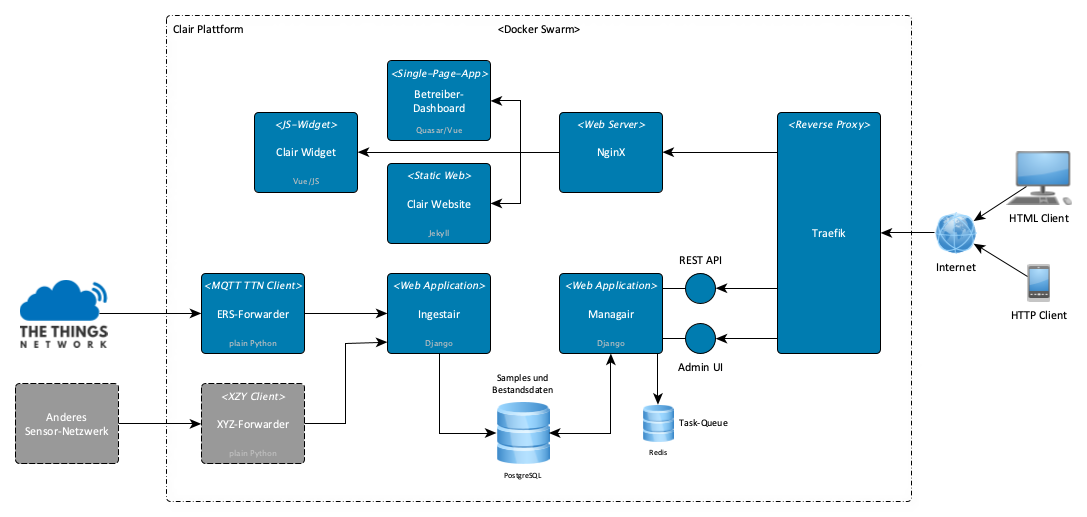
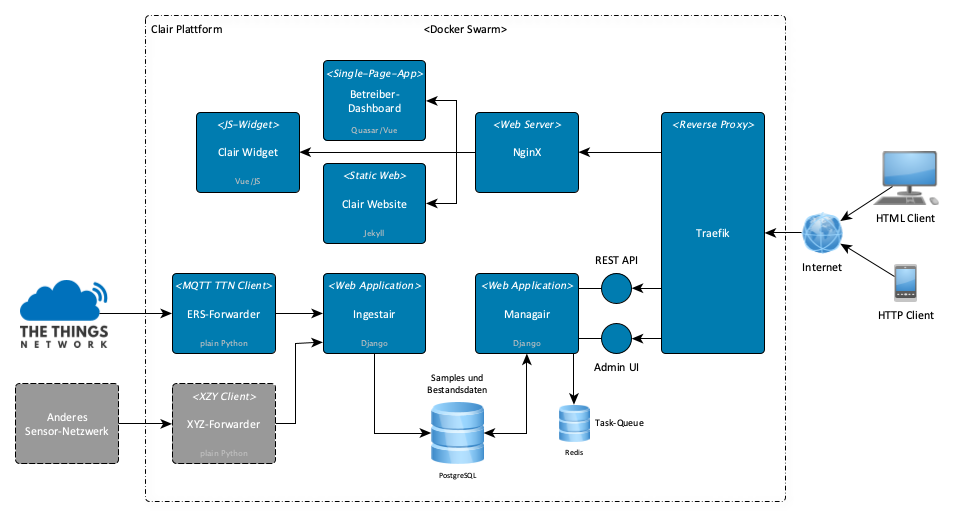
Bugfix und überarbeitete Grafik

diff --git a/technik.md b/technik.md
@@ -25,7 +25,7 @@ In der ersten Ausbaustufe des Clair-Netzwerks setzen wir auf LoRaWAN, da diese F
 
 ### Clair Plattform
 
-Für Sensoren, die ins Clair-Netzwerk eingebunden werden sollen, konfigurieren wir eine Verbindung zu einem bestimmten Endpunkt im Things Network, einer sog. _TTN Anwendung_. Diese TTN-Anwendung wiederum leitet die Messdaten an die Clair-Plattform weiter.
+Für Sensoren, die ins Clair-Netzwerk eingebunden werden sollen, konfigurieren wir eine Verbindung zu einem bestimmten Endpunkt im Things Network. Dieser leitet die Messdaten zu einer passenden _TTN Anwendung_ weiter, die erste Anwendung in der Verarbeitungskette der Clair Plattform.
 
 Eine Übersicht der Clair-Plattform zeigt die folgende Abbildung.
 ![Die Clair Plattform]({{ "/img/clair-stack.png" | relative_url }})
@@ -50,7 +50,8 @@ Die Clair Plattform bildet real existierende Entitäten ab:
 - _Organisationen_ sind die Betreiber von Räumen im juristischen Sinn, also z.B. Firmen oder Vereine. Jede Organisation hat einen oder mehrere _User_ als _Mitglieder_. Ein User kann gleichzeitig Mitglied mehrerer Organisationen sein - z.B. eine Teilzeitkraft, die in zwei Cafés angestellt ist.
 - Eine Organisation ist Clair-Teilnehmer, weil sie vernetzte CO<sub>2</sub>-Sensoren betreibt. Diese Sensoren sind als _Nodes_ in der Clair Plattform abgebildet und fest der jeweiligen Organisation zugeordnet.
 - Jede Organisation hat mindestens einen durch eine _Adresse_ identifizierten _Ort_ (Site). Dort befindet sich beispielsweise ein Geschäft, Restaurant oder eine Praxis. Eine Organisation kann auch mehrere Orte betreiben, wie z.B. bei einer Café-Kette.
-- Jeder Ort kann über ein oder mehrere _Räume_ verfügen, in denen wiederum ein oder mehrere Sensoren installert sein können. Eine _Installation_ kann von begrenzter Dauer sein. Somit ist es möglich, einen Sensor nach einer bestimmten Zeit aus einem Raum in einen anderen umzuhängen.
+- Jeder Ort kann über einen oder mehrere _Räume_ verfügen, in denen wiederum ein oder mehrere Sensoren installert sein können.
+- Eine _Installation_ kann von begrenzter Dauer sein. Somit ist es möglich, einen Sensor nach einer bestimmten Zeit aus einem Raum in einen anderen umzuhängen.
 
 Dieses Datenmodell ist in der folgenden Abbildung in vereinfachter
 Weise als Entity-Relationship-Diagramm dargestellt.
@@ -61,8 +62,8 @@ Weise als Entity-Relationship-Diagramm dargestellt.
 
 Der Zugriff auf die Clair Plattform erfolgt grundsätzlich über die REST-Schnittstelle des Clair Servers. Je nach Nutzer sehen wir verschiedene Client-Anwendungen vor:
 
-- Das _Clair Widget_ richtet sich an die Öffentlichkeit; es visualisert den Verlauf der  CO<sub>2</sub>-Konzentration an einem bestimmten Ort - sofern doe zugehörige Organisation die Installationen am jeweiligen Ort als _öffentlich_ freigegeben hat. Das Widget ist eine kleine JavaScript-Anwendung, die in Websites oder Smartphone-Apps eingebunden werden kann.
-- Das _Betreiber-Dashboard_ dient den Mitgliedern einer Organisation zur Verwaltung ihrer Sensoren, Orte, Räume und Installationen. Über das Dashboard können Betreiber alle Messwerte aller Sensoren einsehen und entscheiden, welche davon sie veröffentlichen möchten. Nur die Messwerte der als _öffentlich_ gekennzeichneten Installationen stehen nicht angemeldeten Benutzern zur Verfügung.
+- Das _Clair Widget_ richtet sich an die Öffentlichkeit; es visualisert den Verlauf der  CO<sub>2</sub>-Konzentration an einem bestimmten Ort - sofern die Organisation ihre Installationen am jeweiligen Ort als _öffentlich_ freigegeben hat. Das Widget ist eine kleine JavaScript-Anwendung, die in Websites oder Smartphone-Apps eingebunden werden kann.
+- Das _Betreiber-Dashboard_ dient den Mitgliedern einer Organisation zur Verwaltung ihrer Sensoren, Orte, Räume und Installationen. Über das Dashboard können Betreiber alle Messwerte aller Sensoren einsehen und entscheiden, welche davon sie veröffentlichen möchten. Nur die Messwerte der als _öffentlich_ gekennzeichneten Installationen stehen nicht-angemeldeten Benutzern zur Verfügung.
 - Das _Admin-UI_ dient der Wartung des Systems sowie der Pflege aller Daten im Testbetrieb. Nur Systemadministratoren haben Zugang.
 
 ## Quellcode
@@ -78,9 +79,9 @@ Requests sind willkommen. Den Kern des Systems bilden die folgenden Repositories
   [Django](https://www.djangoproject.com/)-Anwendung, die das Datenmodell und
   die REST-Schnittstelle implementiert.
 * [clair-ttn](https://github.com/ClairBerlin/clair-ttn): Eine in Python
-  geschriebene TTN-Application, die zur Anbindung weiterer LoRaWAN-Sensoren
+  geschriebene TTN-Application, die zur Anbindung anderer LoRaWAN-Sensoren
   erweitert werden kann.
-* [clair-admin-ui](https://github.com/ClairBerlin/clair-admin-ui): das mit
+* [clair-admin-ui](https://github.com/ClairBerlin/clair-admin-ui): Das mit
   Hilfe des [Quasar-Frameworks](https://quasar.dev/) entwickelte Betreiber-Dashboard.
 
 ## Mitarbeit und Nutzung der Clair-Plattform
